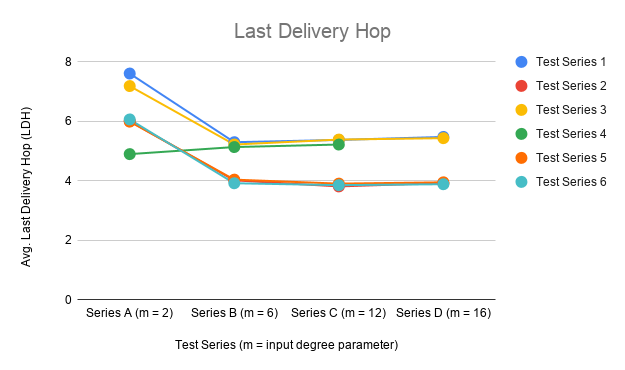
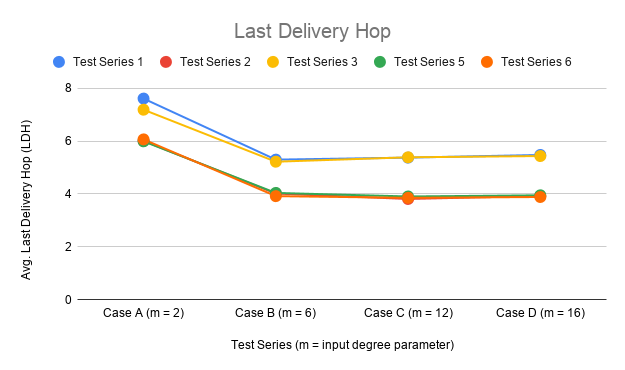
update avg last delivery hop graph

diff --git a/README.md b/README.md
@@ -336,7 +336,7 @@ Generally speaking, the degree distribution of a network affected the Last Deliv
     <img src="images/last_delivery_hop.png" width="60%">
 </p>
 
-<p align="center"> Graph 2: Last Delivery Hop Count </p>
+<p align="center"> Graph 2: Last Delivery Hop Count (Series 4 is omitted because all tests were performed on the same topology) </p>
 
 The drop quickly stabilizes after its initial drop. This trend suggests that the degree of connectivity of greater than 2 will not affect the last delivery hop assuming GossipSubD = 6 and the number of nodes is 95. Typically, hops scale with O(log(N)) where N is the size of the network. Further investigation is needed to understand the relationship of network size to last delivery hop count when using the gossipsub protocol. Also, at a low degree distribution (B-A degree input of 2), the variance of last delivery hop is larger. This is expected as sparser topologies should result in an increased number of hops for each gossip message. Overall, it is suggested that the Eth2 discovery protocol prevents sparsely connected nodes to optimize block announcement times.
 
